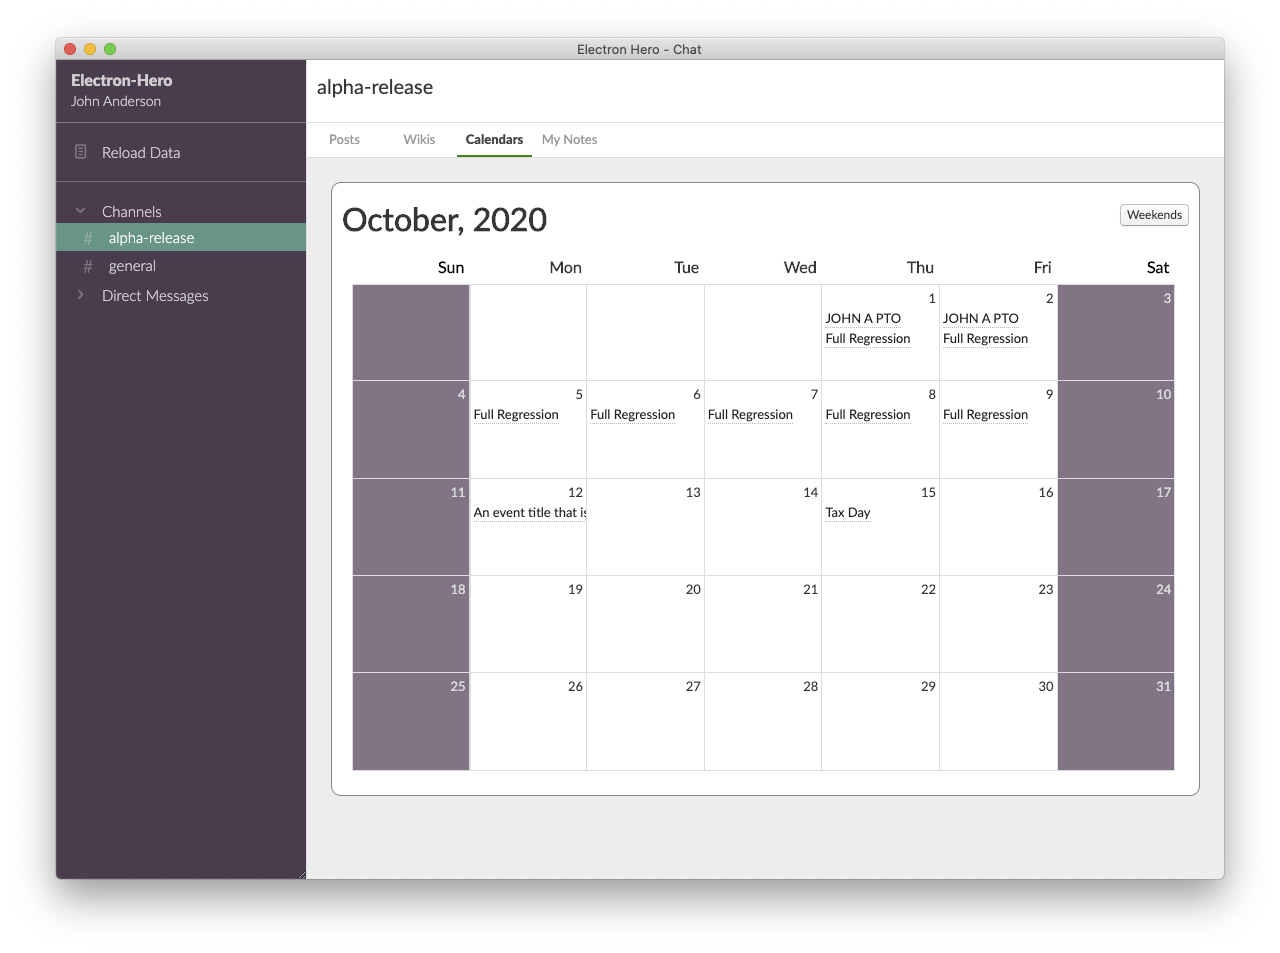
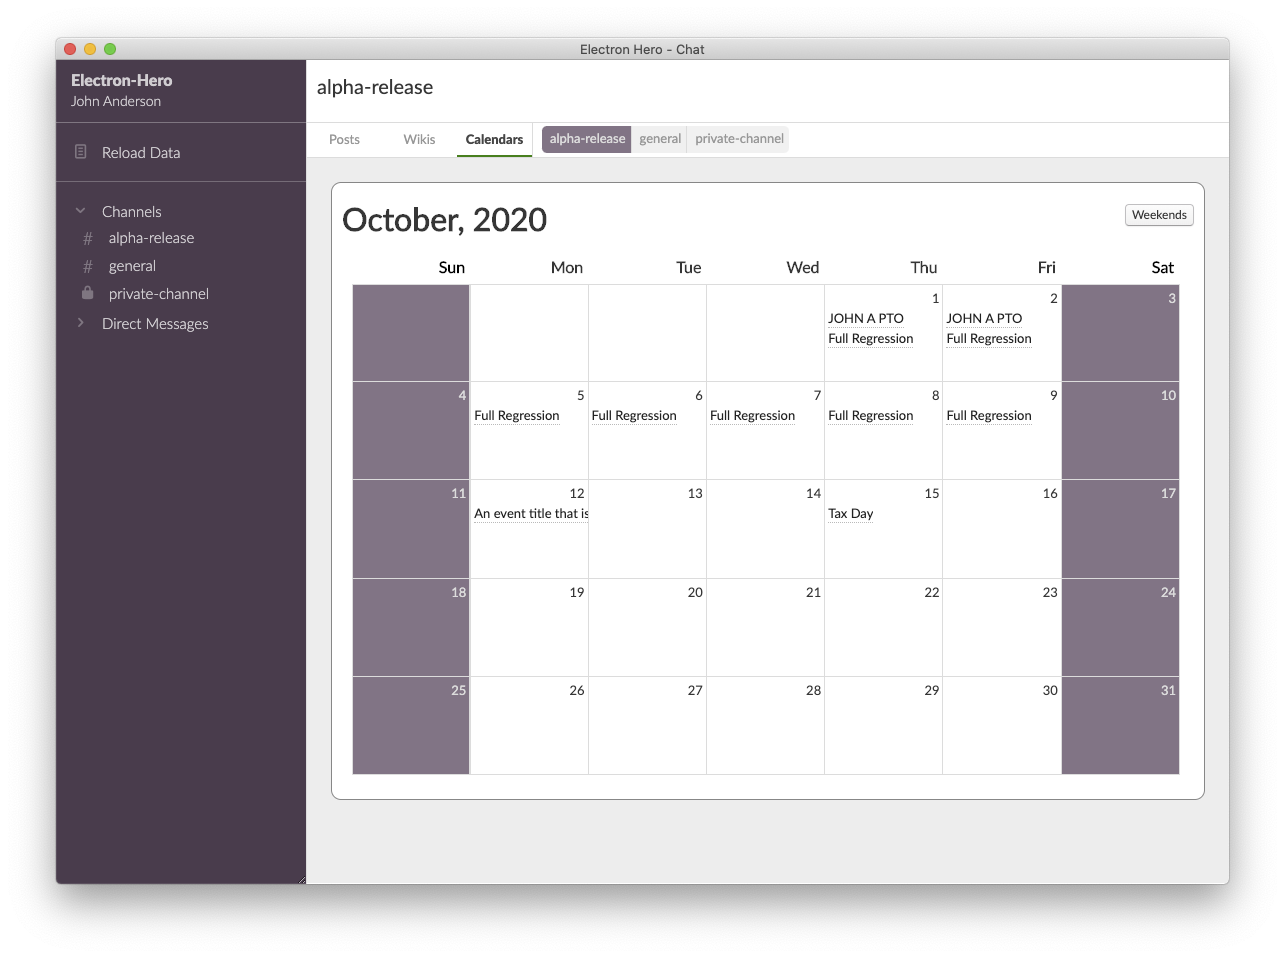
updating slack stealth page with "segmented list" to change channels

diff --git a/slack-hero-stealth.html b/slack-hero-stealth.html
@@ -150,7 +150,8 @@
                 </div>
                 <div class="col-md-6">
                     <p class="lead" >
-                        The other cool thing that we thought would make a great addition to Slack would be a team calendar for each channel.  This way, important events within the team (such as UAT testing, days off, etc.) could be put on the calendar so everyone can keep track of them. <br><br>Another feature that we're working on that's not quite ready is to make most use of the existing tab bar, we'll be adding functionality so that you can have additional tabs to the right of the tabs shown, but they will be short cuts for your most frequently used channels.  This would allow you to close the sidebar completely, yet still being able to get to the channels you spend time in.
+                        The other cool thing that we thought would make a great addition to Slack would be a team calendar for each channel.  This way, important events within the team (such as UAT testing, days off, etc.) could be put on the calendar so everyone can keep track of them.
+                        <br><br>Another great custom feature you can see here is a "segmented list", which contains short cuts for your most frequently used channels.  These allow you to close the sidebar completely, yet still being able to get to the channels you spend time in quickly.  Best of all, it was implemented with just two additional files, one JavaScript and one CSS file.
                     </p>
                 </div>
             </div>
